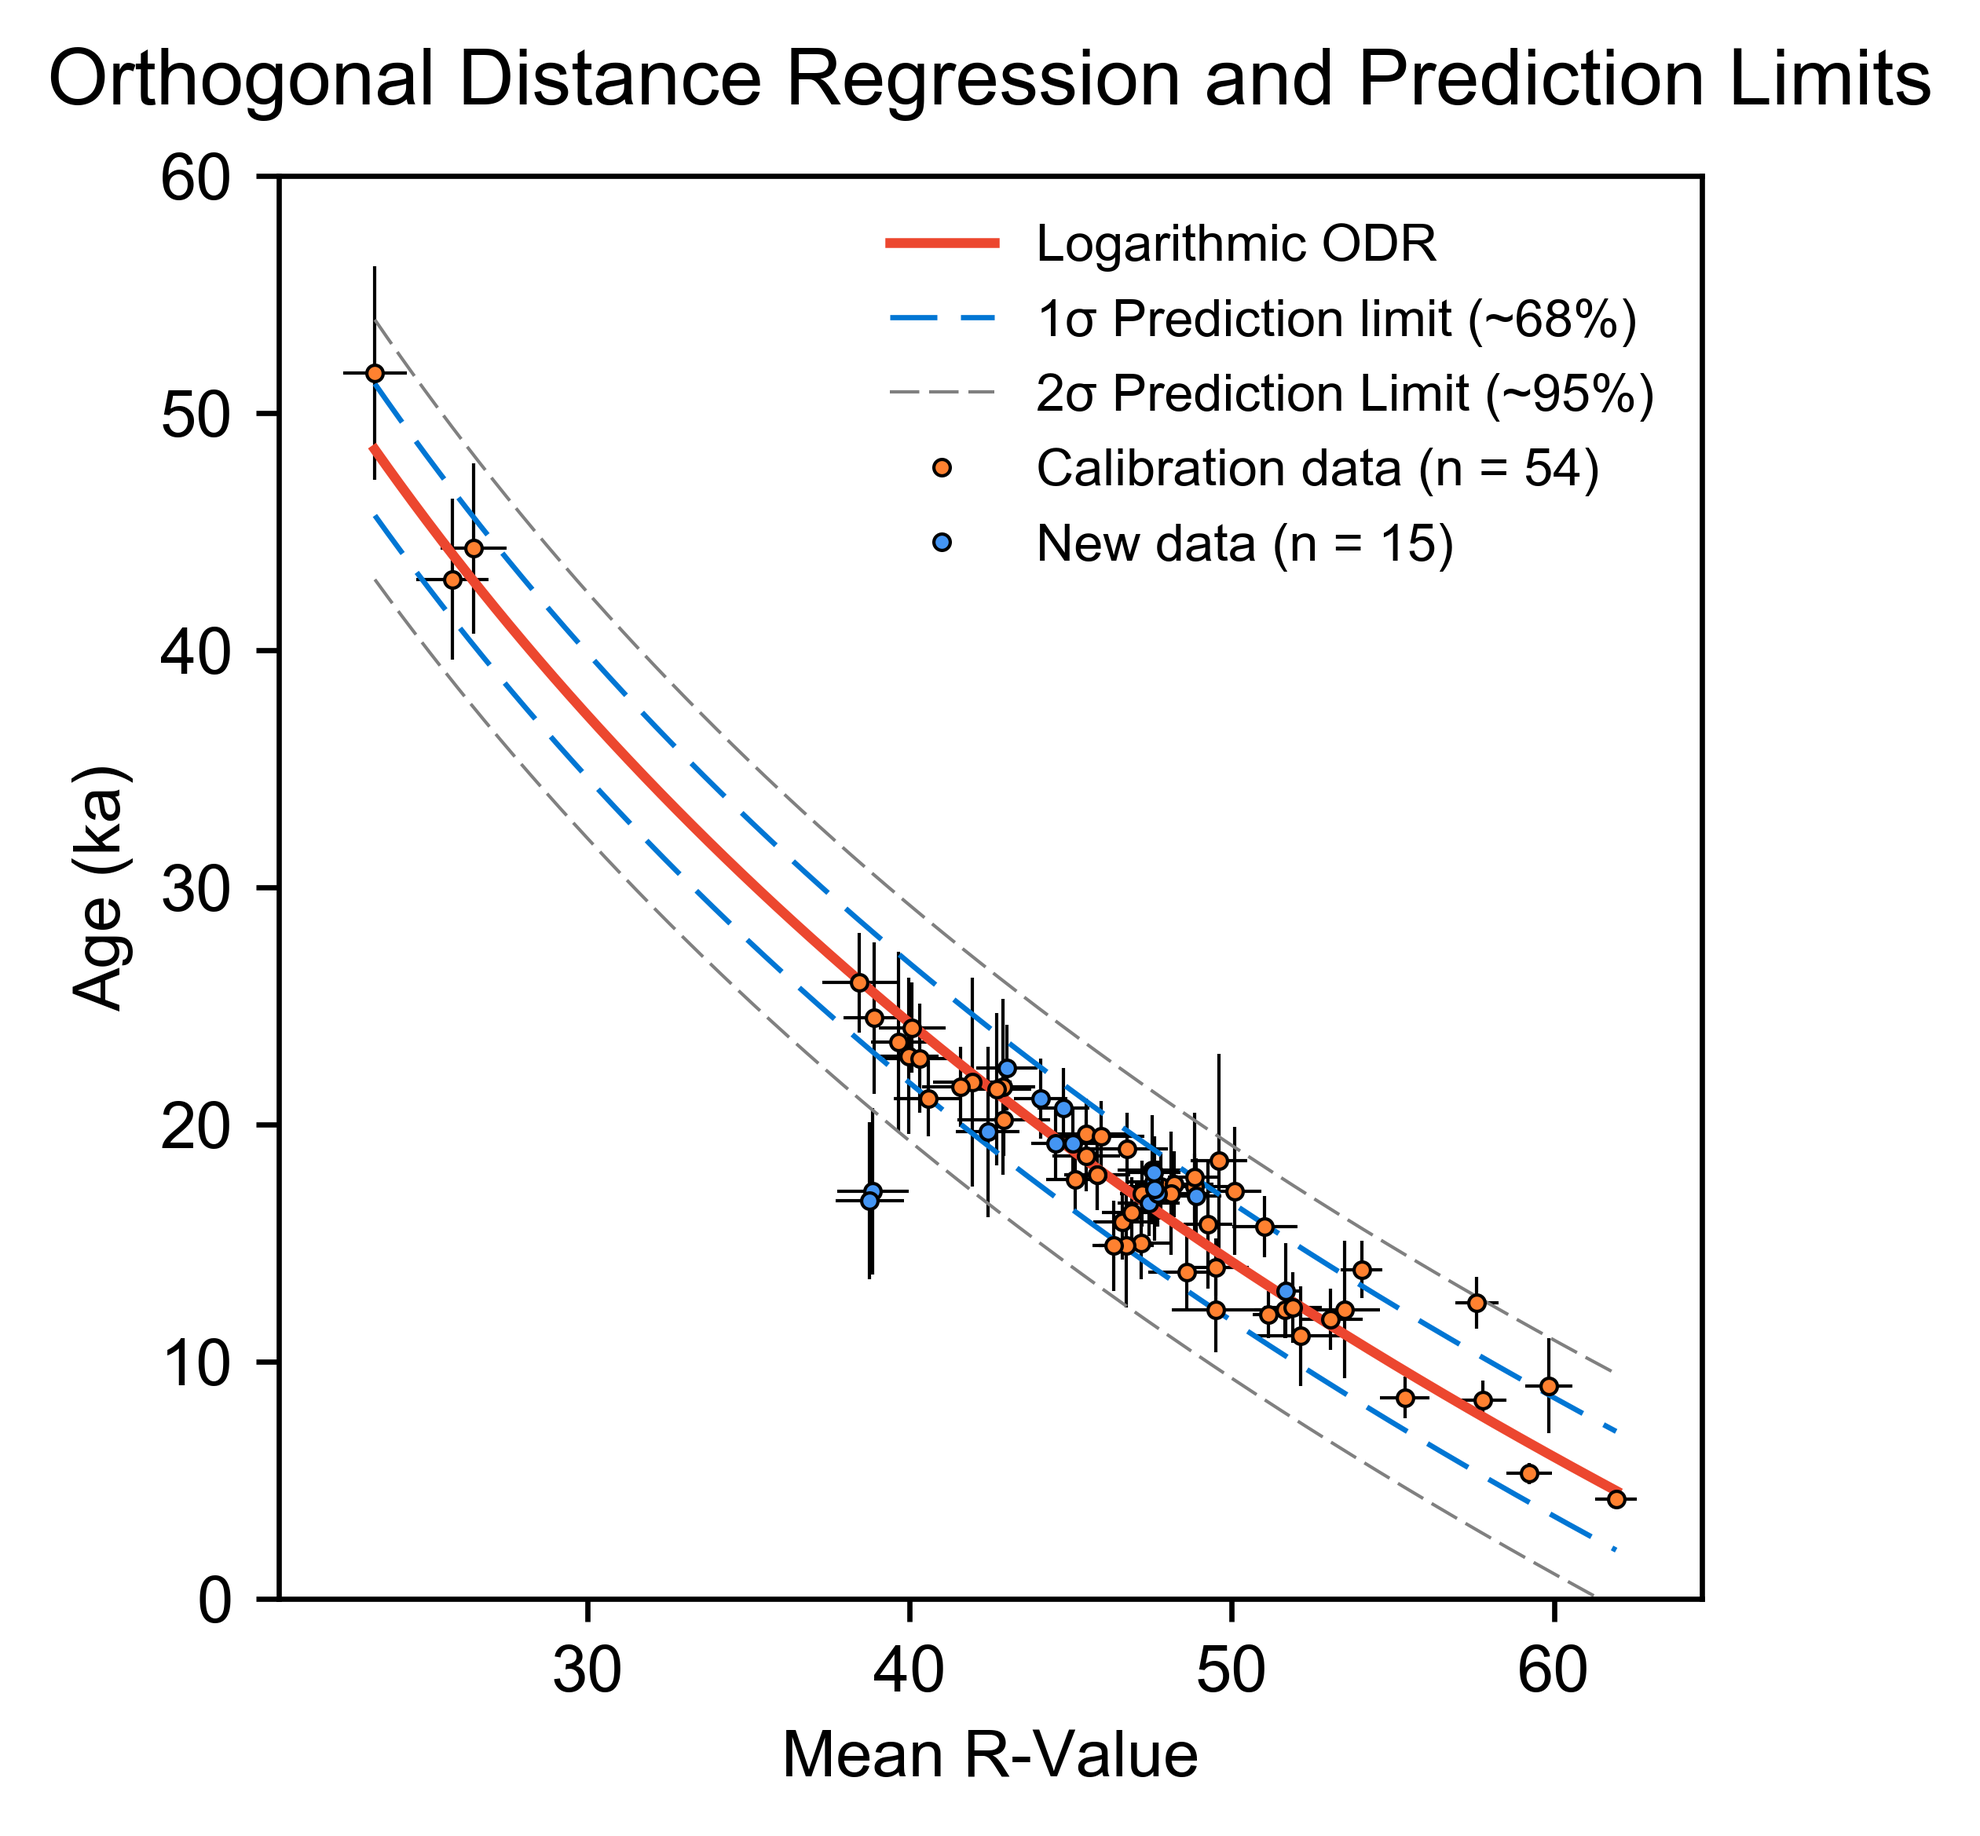
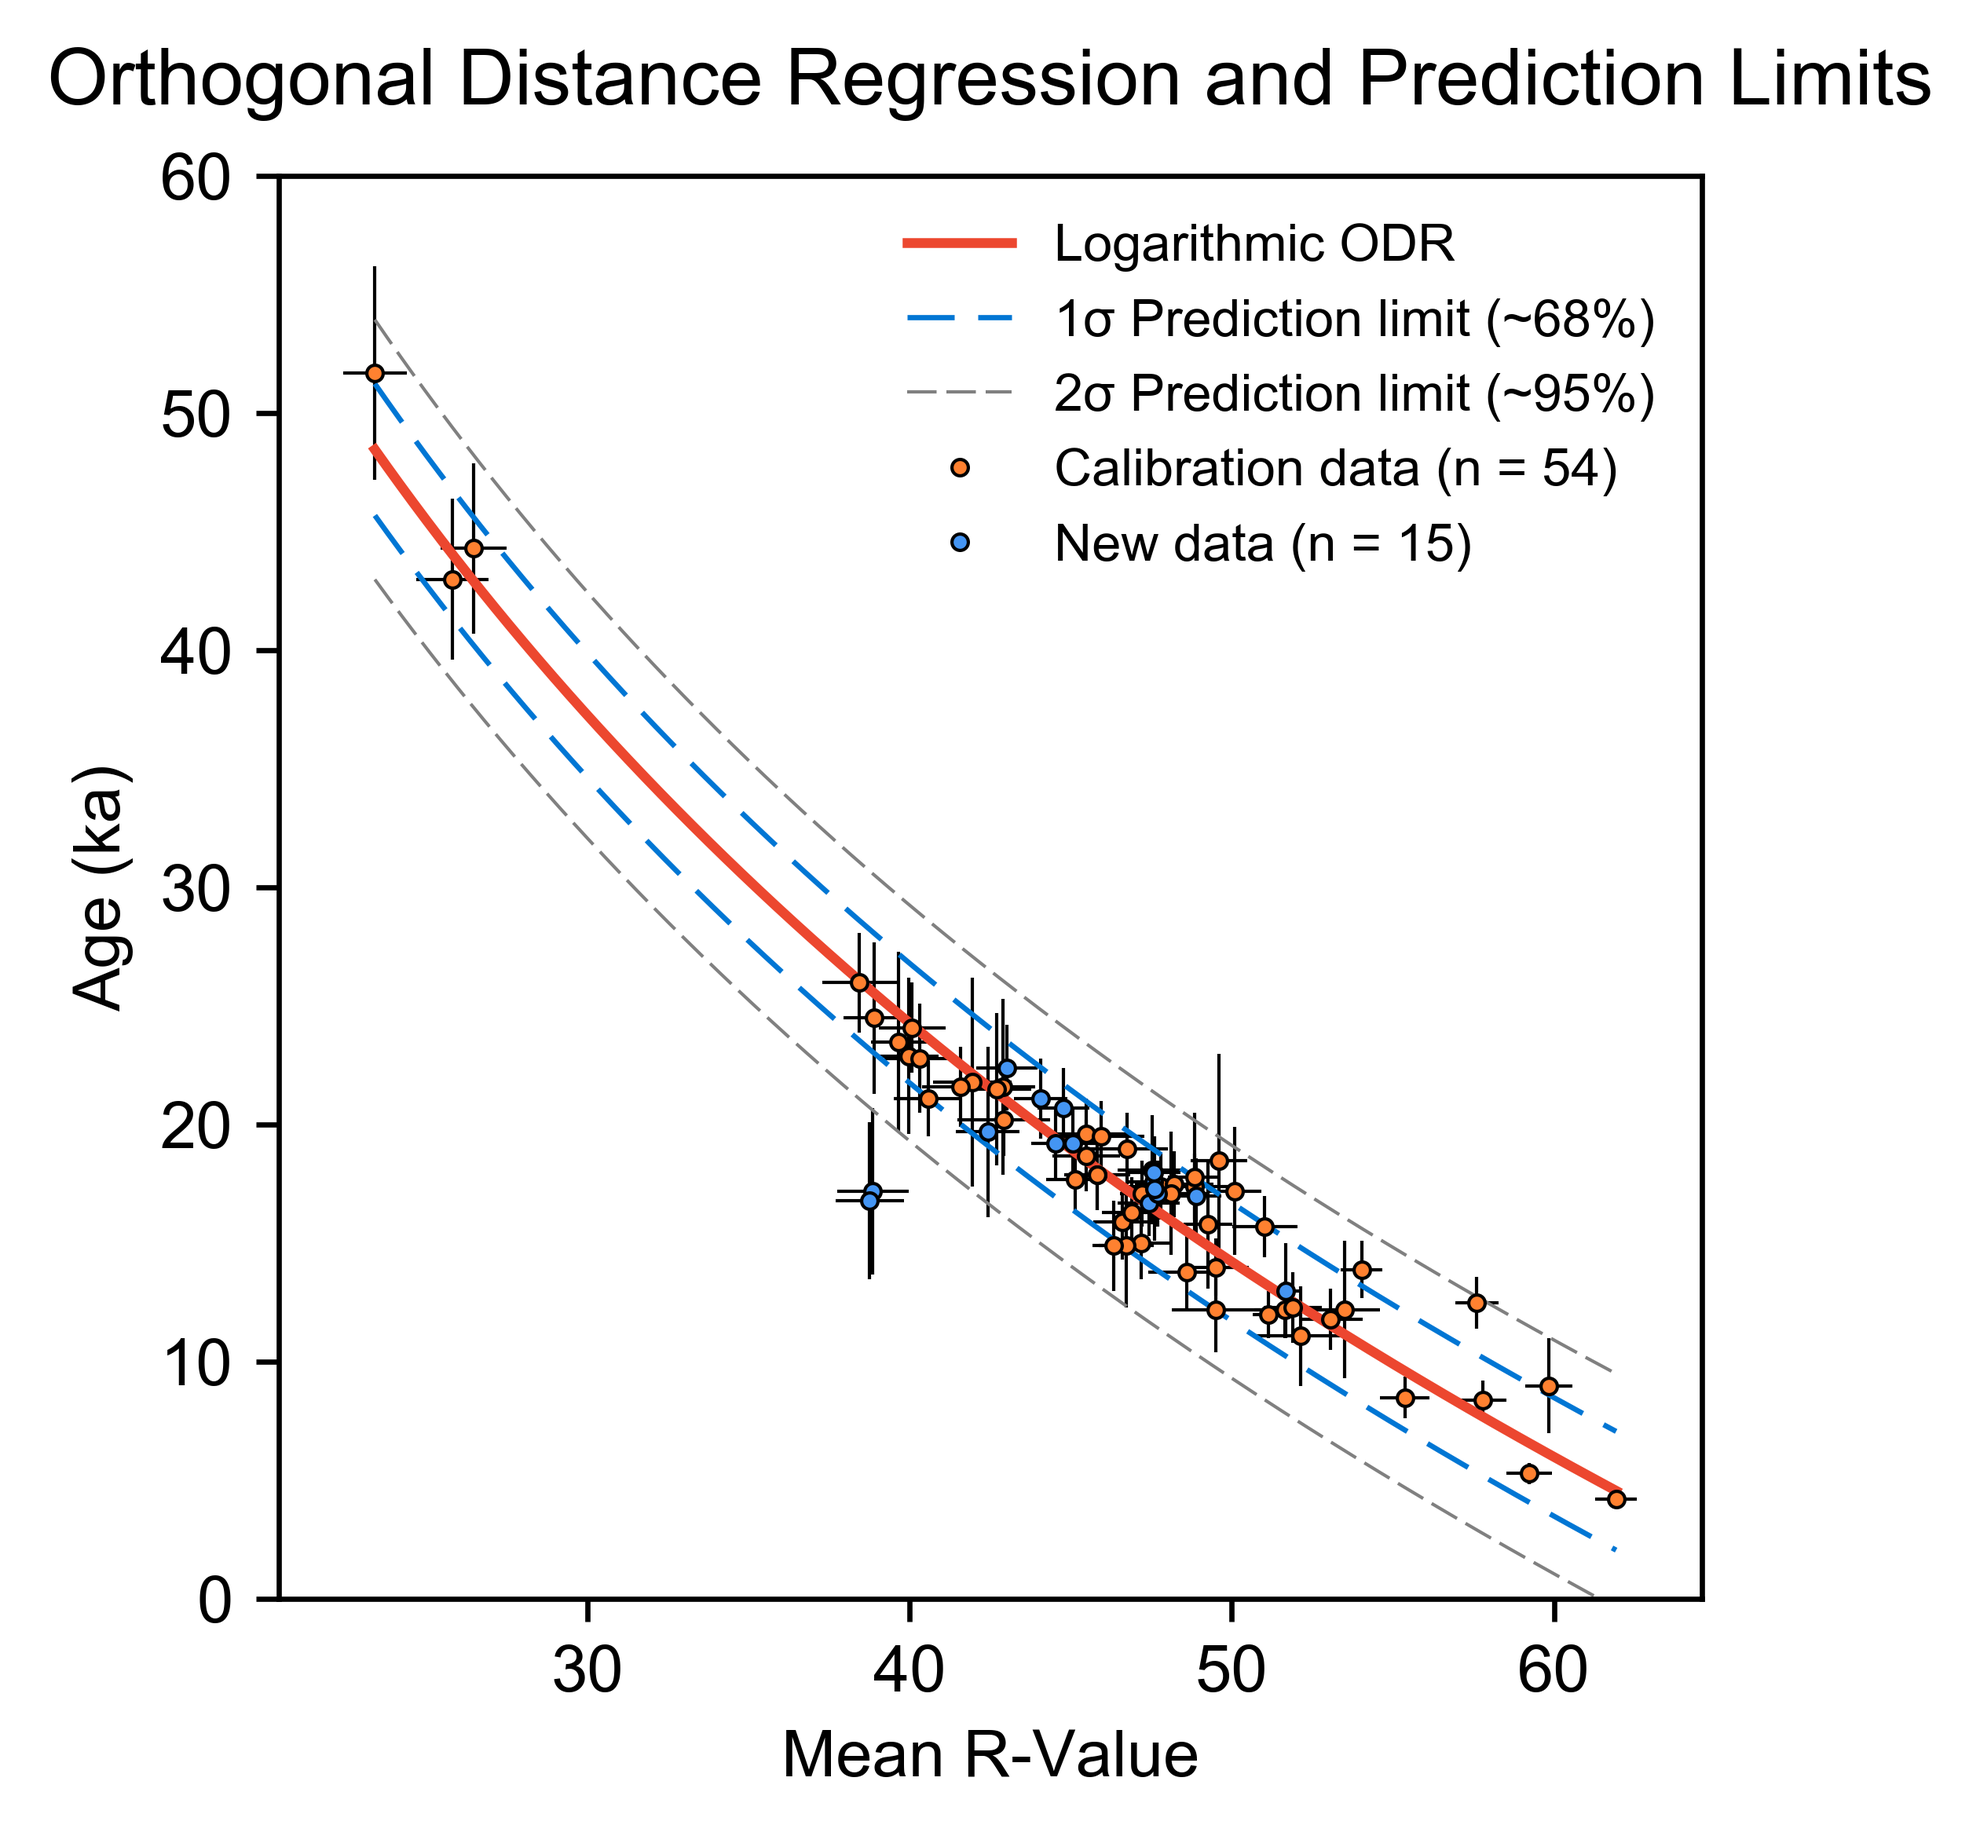
Fixed figure, update read me

Changed region(s): [[0.526, 0.1249, 0.8354, 0.3122], [0.4641, 0.2498, 0.495, 0.3122]]

diff --git a/ODR_code.py b/ODR_code.py
@@ -104,7 +104,7 @@ def plot_shed_curve(x_data, y_data, x_err, y_err, new_x_data, new_y_data, new_x_
     ax.plot(xn, yn, '#EC472F', label='Logarithmic ODR')
     ax.plot(xn, yn + pl1, '#0076D4', dashes=[9, 4.5], label='1σ Prediction limit (~68%)', linewidth=0.8)
     ax.plot(xn, yn - pl1, '#0076D4', dashes=[9, 4.5], linewidth=0.8)
-    ax.plot(xn, yn + pl2, '0.5', dashes=[9, 3], label='2σ Prediction Limit (~95%)', linewidth=0.5)
+    ax.plot(xn, yn + pl2, '0.5', dashes=[9, 3], label='2σ Prediction limit (~95%)', linewidth=0.5)
     ax.plot(xn, yn - pl2, '0.5', dashes=[9, 3], linewidth=0.5)
 
     # plot points and error bars
@@ -139,7 +139,7 @@ def plot_shed_curve(x_data, y_data, x_err, y_err, new_x_data, new_y_data, new_x_
 
     # export the figure
     savefig('pyrenees.png', dpi = 600, bbox_inches='tight')
-    savefig('pyrenees.svg')
+    #savefig('pyrenees.svg')
 
 '''
 Data is now loaded directly from the csv (update working directory)

diff --git a/README.md b/README.md
@@ -5,11 +5,11 @@ Data and code for the above paper, published in *Journal Name*, available at: ww
 
 Files include:
 
-- Supplementary Table 1: includes <sup>10</sup>Be sample information (n = 17)
-- Supplementary Table 2: includes <sup>36</sup>Cl sample information (n = 2)
-- Supplementary Table 3: includes Schmidt hammer sample information (n = 645)
-- Supplementary Description: describes the Supplementary Tables above
-- Manuscript (post-peer review)
+- Supplementary Table 1: includes <sup>10</sup>Be sample information (n = 17).
+- Supplementary Table 2: includes <sup>36</sup>Cl sample information (n = 2).
+- Supplementary Table 3: includes Schmidt hammer sample information (n = 645).
+- Supplementary Description: describes the Supplementary Tables above.
+- Code used for orthogonal distance regression ("ODR_code.py").
 
 ### Abstract
 
